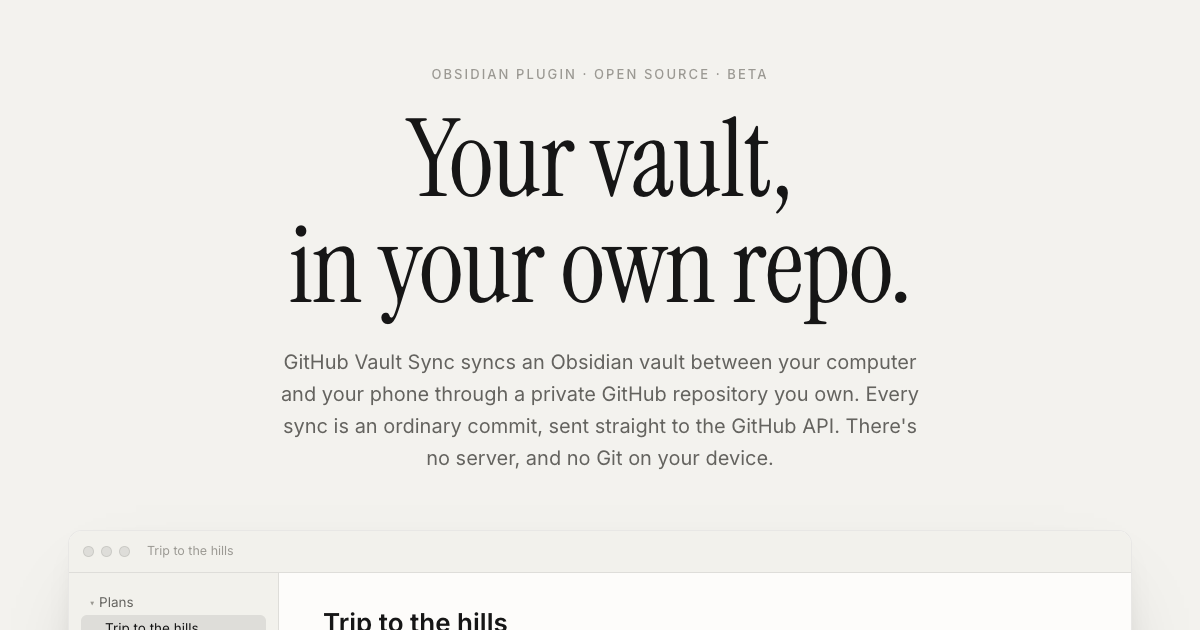
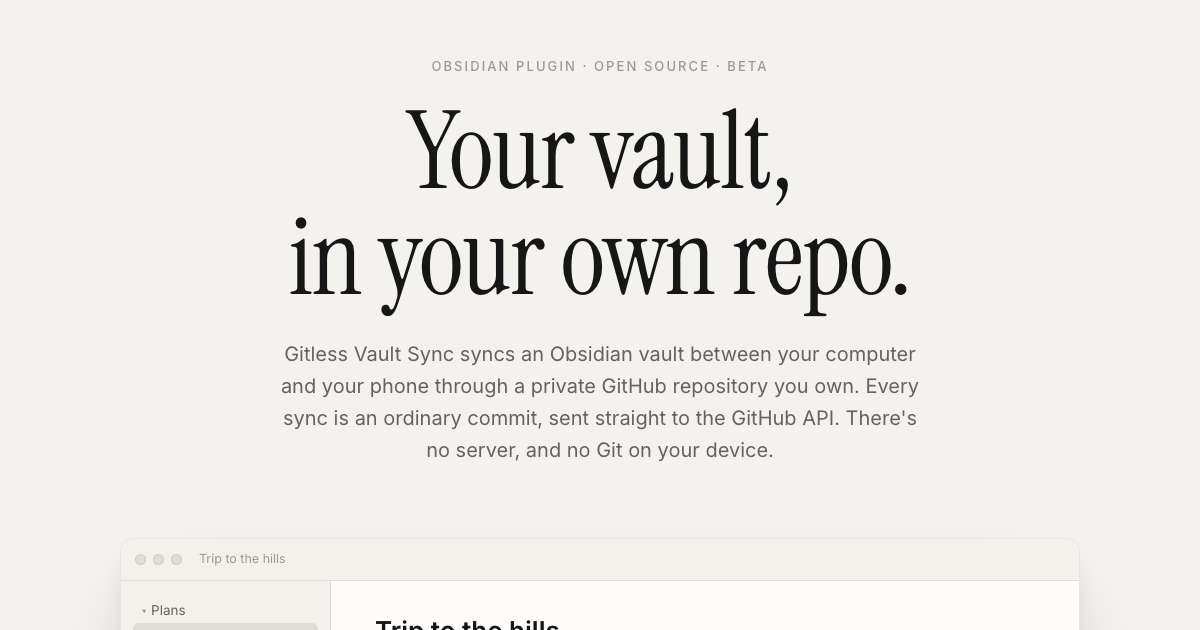
Rename the plugin to Gitless Vault Sync and release 0.4.1
The plugin id stays github-vault-sync, so installed devices keep their settings.
The updater's display name changes in 1.0.3.

diff --git a/plugin/updater/main.ts b/plugin/updater/main.ts
@@ -19,7 +19,7 @@ interface PluginManager {
   loadManifests?(): Promise<void>;
 }
 
-/** Keeps GitHub Vault Sync current from the public `updates` branch of its repository. */
+/** Keeps Gitless Vault Sync current from the public `updates` branch of its repository. */
 export default class SyncUpdater extends Plugin {
   private data: UpdaterData = { rejected: [] };
   private checking = false;
@@ -30,7 +30,7 @@ export default class SyncUpdater extends Plugin {
     const saved: unknown = await this.loadData();
     const rejected: unknown = saved && Reflect.get(saved, "rejected");
     if (Array.isArray(rejected)) this.data.rejected = rejected.filter((item): item is string => typeof item === "string");
-    this.addCommand({ id: "check", name: "Check for GitHub Vault Sync update", callback: () => { void this.check(true); } });
+    this.addCommand({ id: "check", name: "Check for Gitless Vault Sync update", callback: () => { void this.check(true); } });
     this.app.workspace.onLayoutReady(() => {
       // Let startup and the first sync settle before looking for updates.
       this.registerInterval(window.setTimeout(() => { void this.check(false); }, 20_000));
@@ -64,8 +64,8 @@ export default class SyncUpdater extends Plugin {
     } catch (error) {
       this.failedAt = Date.now();
       // Background checks stay quiet on failure (often just offline); a manual check says why.
-      if (manual) new Notice(`Couldn't check for a GitHub Vault Sync update. ${error instanceof Error ? error.message : ""}`, 8000);
-      else console.warn("GitHub Vault Sync updater:", error);
+      if (manual) new Notice(`Couldn't check for a Gitless Vault Sync update. ${error instanceof Error ? error.message : ""}`, 8000);
+      else console.warn("Gitless Vault Sync updater:", error);
     } finally {
       this.checking = false;
     }
@@ -74,21 +74,21 @@ export default class SyncUpdater extends Plugin {
   private async report(result: UpdateResult, manual: boolean): Promise<void> {
     switch (result.kind) {
       case "updated":
-        new Notice(`GitHub Vault Sync updated to ${result.to}.`, 4000);
+        new Notice(`Gitless Vault Sync updated to ${result.to}.`, 4000);
         return;
       case "rolled-back":
         this.data.rejected = [...new Set([...this.data.rejected, result.version])];
         await this.saveData(this.data);
-        new Notice(`GitHub Vault Sync ${result.version} didn't load on this device, so the previous version was restored.`, 0);
+        new Notice(`Gitless Vault Sync ${result.version} didn't load on this device, so the previous version was restored.`, 0);
         return;
       case "skipped":
-        if (manual) new Notice(`GitHub Vault Sync ${result.version} is available but wasn't installed. ${result.reason}`, 8000);
+        if (manual) new Notice(`Gitless Vault Sync ${result.version} is available but wasn't installed. ${result.reason}`, 8000);
         return;
       case "busy":
         if (manual) new Notice("A sync is running. The update will be tried again later.", 6000);
         return;
       case "up-to-date":
-        if (manual) new Notice(`GitHub Vault Sync is up to date (${result.version}).`, 4000);
+        if (manual) new Notice(`Gitless Vault Sync is up to date (${result.version}).`, 4000);
     }
   }
 

diff --git a/site/vaultsync/index.html b/site/vaultsync/index.html
@@ -3,9 +3,9 @@
 <head>
 <meta charset="utf-8" />
 <meta name="viewport" content="width=device-width, initial-scale=1" />
-<title>GitHub Vault Sync for Obsidian</title>
+<title>Gitless Vault Sync for Obsidian</title>
 <meta name="description" content="An Obsidian plugin that syncs your vault through a private GitHub repository you own. Every sync is a plain commit. No server, no Git on your device, and it works on phones." />
-<meta property="og:title" content="GitHub Vault Sync for Obsidian" />
+<meta property="og:title" content="Gitless Vault Sync for Obsidian" />
 <meta property="og:description" content="Sync an Obsidian vault through a private GitHub repository you own, on desktop and phone. No server, no Git on your device." />
 <meta property="og:image" content="https://vaultsync.tushar.ai/og.png" />
 <meta property="og:url" content="https://vaultsync.tushar.ai/" />
@@ -188,7 +188,7 @@
 <script>document.documentElement.classList.add('js')</script>
 <div class="wrap">
   <header class="top">
-    <a class="mark" href="/">Vault Sync</a>
+    <a class="mark" href="/">Gitless Vault Sync</a>
     <nav>
       <a class="hide-sm" href="#install">Install</a>
       <a class="hide-sm" href="https://notes.tushar.ai/">Android app</a>
@@ -261,7 +261,7 @@
     <h2>Set it up once per device.</h2>
     <ol class="steps">
       <li><b>Download both plugins</b> from the <a href="https://github.com/triptu/markdown-github-sync/releases/latest">latest release</a> and unzip them into your vault's <code>.obsidian/plugins/</code> folder.</li>
-      <li><b>Make a private repository</b> on GitHub, then turn on GitHub Vault Sync and its Updater in Obsidian.</li>
+      <li><b>Make a private repository</b> on GitHub, then turn on Gitless Vault Sync and its Updater in Obsidian.</li>
       <li><b>Enter the repository and a token</b> in the plugin's settings, click Connect, look over the first sync, and start.</li>
     </ol>
     <p class="more">The <a href="https://github.com/triptu/markdown-github-sync#readme">README</a> has the full steps, the token permissions and the limits.</p>

diff --git a/plugin/src/main.ts b/plugin/src/main.ts
@@ -174,7 +174,7 @@ export default class GitVaultSync extends Plugin {
   }
   /** Opens this plugin's settings page; uses Obsidian's unofficial settings API when present. */
   openSettings(): void {
-    if (!openSettingsTab(this.app, this.manifest.id)) new Notice("Open Settings → GitHub Vault Sync.");
+    if (!openSettingsTab(this.app, this.manifest.id)) new Notice("Open Settings → Gitless Vault Sync.");
   }
   /** Background failures: offline is retried quietly; anything else is shown until it's fixed. */
   fail(error: unknown): void {
@@ -500,13 +500,13 @@ export default class GitVaultSync extends Plugin {
       if (outcome.kind === "synced" && Date.now() - this.lastCleanup >= 30 * 60 * 1000) {
         // Internal safety copies are pruned quietly; a failed cleanup retries next time.
         try { await this.compactRecoveryOwned(); }
-        catch (error) { console.warn("GitHub Vault Sync: cleanup skipped", error); }
+        catch (error) { console.warn("Gitless Vault Sync: cleanup skipped", error); }
       }
     });
   }
   async syncNow(): Promise<void> {
     if (!this.session) {
-      new Notice("Finish setting up GitHub Vault Sync in settings.");
+      new Notice("Finish setting up Gitless Vault Sync in settings.");
       return;
     }
     await this.scheduler?.now();

diff --git a/plugin/test/plugin-safety.test.ts b/plugin/test/plugin-safety.test.ts
@@ -140,7 +140,7 @@ function harness() {
     },
   };
   const create = (replacement = false) => {
-    const plugin = new (replacement ? reloaded : loaded).GitVaultSync(app as unknown as App, { id: "git-vault-sync", name: "GitHub Vault Sync", version: "test", minAppVersion: "1.11.4", description: "Safety test", author: "Test" }); plugin.app = app as unknown as App;
+    const plugin = new (replacement ? reloaded : loaded).GitVaultSync(app as unknown as App, { id: "git-vault-sync", name: "Gitless Vault Sync", version: "test", minAppVersion: "1.11.4", description: "Safety test", author: "Test" }); plugin.app = app as unknown as App;
     plugin.settings = structuredClone(settings); Reflect.set(plugin, "ready", true); return plugin;
   };
   return { app, docs, files, local, put, create, emit: (name: string, path: string, oldPath?: string) => events.get(name)?.({ path }, oldPath), beforeProcess: (callback: () => Promise<void>) => { beforeProcess = callback; }, crashAfter: () => { crashAfter = true; }, crashBefore: () => { crashBefore = true; }, tearWrite: () => { tearNextWrite = true; } };

diff --git a/site/notes/index.html b/site/notes/index.html
@@ -191,7 +191,7 @@
     <span class="pair-mark"><svg viewBox="0 0 28 28" fill="none" stroke="currentColor" stroke-width="1.5" stroke-linecap="round" stroke-linejoin="round" aria-hidden="true"><circle cx="8" cy="7" r="2.6"/><circle cx="8" cy="21" r="2.6"/><circle cx="20" cy="11" r="2.6"/><path d="M8 9.6v8.8M20 13.6c0 4-3 4.6-9.6 6"/></svg></span>
     <div>
       <p class="eyebrow">Pairs with</p>
-      <b>GitHub Vault Sync</b>
+      <b>Gitless Vault Sync</b>
       <span class="pair-desc">The Obsidian plugin this app syncs with. Your phone and your computer share one private repository.</span>
     </div>
     <span class="arrow" aria-hidden="true">&rarr;</span>

diff --git a/plugin/test/copy.test.ts b/plugin/test/copy.test.ts
@@ -101,7 +101,7 @@ test("token link prefills repository permissions and owner without adding broade
   assert.equal(url.searchParams.get("target_name"), "triptu");
   assert.equal(url.searchParams.get("contents"), "write");
   assert.equal(url.searchParams.get("metadata"), "read");
-  assert.equal(url.searchParams.get("name"), "Obsidian GitHub Vault Sync");
+  assert.equal(url.searchParams.get("name"), "Obsidian Gitless Vault Sync");
   assert.deepEqual([...url.searchParams.keys()].sort(), ["contents", "description", "metadata", "name", "target_name"]);
   assert.equal(new URL(tokenCreationUrl("")).searchParams.has("target_name"), false);
 });

diff --git a/plugin/src/ui/copy.ts b/plugin/src/ui/copy.ts
@@ -9,7 +9,7 @@ export function failure(error: unknown): string {
 /** GitHub's fine-grained token form, prefilled with this plugin's name and the permissions it needs. */
 export function tokenCreationUrl(owner: string): string {
   const url = new URL("https://github.com/settings/personal-access-tokens/new");
-  url.searchParams.set("name", "Obsidian GitHub Vault Sync");
+  url.searchParams.set("name", "Obsidian Gitless Vault Sync");
   url.searchParams.set("description", "Sync my Obsidian vault with GitHub");
   url.searchParams.set("contents", "write");
   url.searchParams.set("metadata", "read");

diff --git a/plugin/src/ui/configuration-modal.ts b/plugin/src/ui/configuration-modal.ts
@@ -20,7 +20,7 @@ export class ConfigurationModal extends Modal {
     const el = this.contentEl;
     el.empty(); el.addClass("git-sync-panel");
     this.setTitle("Obsidian settings");
-    if (!session) { el.createEl("p", { text: "Connect to GitHub in GitHub Vault Sync settings first." }); return; }
+    if (!session) { el.createEl("p", { text: "Connect to GitHub in Gitless Vault Sync settings first." }); return; }
     const loading = el.createEl("p", { text: "Checking settings on this device…", cls: "git-sync-muted" });
     try {
       const listing = await session.listConfiguration();

diff --git a/plugin/src/ui/enrollment-modal.ts b/plugin/src/ui/enrollment-modal.ts
@@ -97,7 +97,7 @@ export class PublicationRecoveryModal extends Modal {
         this.close();
         const enrollment = await this.plugin.session?.previewEnrollment();
         if (enrollment?.kind === "preview") new EnrollmentModal(this.app, this.plugin, enrollment).open();
-        else new Notice("Open GitHub Vault Sync settings to review changes and resume.");
+        else new Notice("Open Gitless Vault Sync settings to review changes and resume.");
       }, "Save copies and review").open();
     }));
   }

diff --git a/plugin/src/ui/changes-modal.ts b/plugin/src/ui/changes-modal.ts
@@ -90,7 +90,7 @@ export class ChangesModal extends Modal {
       if (!current()) return;
       body.empty();
       if (!status || status.kind === "unenrolled") {
-        summary.setText("Sync isn't set up yet. Connect to GitHub in GitHub Vault Sync settings.");
+        summary.setText("Sync isn't set up yet. Connect to GitHub in Gitless Vault Sync settings.");
         return;
       }
       if (status.kind === "corrupt") {

diff --git a/AGENTS.md b/AGENTS.md
@@ -1,6 +1,6 @@
 # Maintainer guide
 
-GitHub Vault Sync is an Obsidian plugin that syncs a vault to a private GitHub repository by committing through the GitHub API. It has no server and no local `.git` checkout. This repository, `triptu/markdown-github-sync`, is the plugin's source. Personal details for the maintainer's own setup (vault paths, the vault repository, devices) live in `CLAUDE.local.md`, which git ignores; this repository is public, so keep them out of tracked files.
+Gitless Vault Sync is an Obsidian plugin that syncs a vault to a private GitHub repository by committing through the GitHub API. It has no server and no local `.git` checkout. This repository, `triptu/markdown-github-sync`, is the plugin's source. Personal details for the maintainer's own setup (vault paths, the vault repository, devices) live in `CLAUDE.local.md`, which git ignores; this repository is public, so keep them out of tracked files.
 
 ## Layout
 
@@ -14,7 +14,7 @@ GitHub Vault Sync is an Obsidian plugin that syncs a vault to a private GitHub r
   - `hidden-config.ts` covers `.obsidian` settings.
   - `scheduler.ts` decides when syncs run.
 - `plugin/src/ui/`: modals and settings. All user-facing wording lives in `ui/copy.ts`.
-- `plugin/updater/`: the companion **GitHub Vault Sync Updater** plugin. `core.ts` holds the logic and has no Obsidian imports.
+- `plugin/updater/`: the companion **Gitless Vault Sync Updater** plugin. `core.ts` holds the logic and has no Obsidian imports.
 - `plugin/test/`: run with `npm test` from `plugin/` (some tests use relative paths).
 - `site/`: the two static product pages, `notes/` (notes.tushar.ai) and `vaultsync/` (vaultsync.tushar.ai). Each folder is its own Vercel project and deploys on push to `main` when that folder changes. Screens and notes there are made up.
 - `android/`: a native Android notes app (Kotlin, Compose) that edits the same vault. Build and test from `android/` with `./gradlew :app:testDebugUnitTest installDebug` (set `ANDROID_SERIAL` when an emulator is also attached). Test the app on an emulator, not the owner's phone: the phone carries only the release app (`io.github.triptu.notes`, built with `./gradlew :app:assembleRelease`, signed with a key configured in `~/.gradle/gradle.properties`) which holds the owner's real vault. Don't install the debug app (`io.github.triptu.notes.debug`) or anything else on the phone, and never open, tap, clear or reconfigure the release app; updating it with `adb install -r` is fine when asked. Never connect the debug app to a real vault. Before any `adb shell input` on an emulator, check `mCurrentFocus` is the debug app. The phone can show up twice in `adb devices` (by IP and by name); pick one with `ANDROID_SERIAL`.
@@ -34,18 +34,18 @@ GitHub Vault Sync is an Obsidian plugin that syncs a vault to a private GitHub r
 5. Run `npm run publish-update`. This builds the plugin, zips it and force-pushes a single commit to the `updates` branch, containing `latest.json` (the version plus a SHA-256 for each file) and `latest/*`.
 6. Run `gh release create <version> dist/github-vault-sync/main.js dist/github-vault-sync/manifest.json dist/github-vault-sync/styles.css dist/github-vault-sync.zip dist/github-vault-sync-updater.zip --latest -F docs/releases/<version>.md`. The tag is the bare version with no `v`. Obsidian and BRAT install the three loose files; the zips are for manual installs and the updater. Publish it as a full release, not a pre-release, because pre-releases are hidden from "latest release" lookups.
 
-Devices with the updater install the new version within about 6 hours, or at once with the command "Check for GitHub Vault Sync update". If it fails to load, the updater restores the old files and never retries that version. To ship a fix, publish a higher version number.
+Devices with the updater install the new version within about 6 hours, or at once with the command "Check for Gitless Vault Sync update". If it fails to load, the updater restores the old files and never retries that version. To ship a fix, publish a higher version number.
 
 `npm run lint` runs Obsidian's `eslint-plugin-obsidianmd` recommended config over `plugin/src`, the same checks as the community plugin review. Keep it free of errors. The warnings it still prints are deliberate: the engine uses bare timers and falls back to `.obsidian` because it also runs under Node in tests, copy keeps the plugin's name in capitals, and settings keep `display()` until `minAppVersion` reaches 1.13.
 
 The plugin is being submitted to Obsidian's community plugins under the same id, `github-vault-sync`. Once it's listed, Obsidian updates every device from these GitHub releases, and the updater can retire:
 
-1. On each device, disable and delete **GitHub Vault Sync Updater**. Remove it before ever uninstalling GitHub Vault Sync itself: while the updater is installed, it puts the plugin's files back when they're missing.
+1. On each device, disable and delete **Gitless Vault Sync Updater** (still named GitHub Vault Sync Updater on devices running updater 1.0.2 or older). Remove it before ever uninstalling Gitless Vault Sync itself: while the updater is installed, it puts the plugin's files back when they're missing.
 2. Drop step 5 and the two zips from step 6, then delete the `updates` branch, `plugin/updater/`, `scripts/publish-update.mjs` and the updater parts of `plugin/build.mjs` and `scripts/package.mjs`.
 
 Until then, both paths can run side by side. The updater never installs a version that's the same as or older than the one on disk, so it never undoes a community update, and both install the same build.
 
-The updater itself never updates automatically, so keep it small and stable. To change it, bump `plugin/updater/manifest.json` and copy `dist/github-vault-sync-updater/*` into `.obsidian/plugins/github-vault-sync-updater/` on one device. Config sync carries it to the other devices once the change is approved under Obsidian settings.
+The updater itself never updates automatically, so keep it small and stable. Devices still on updater 1.0.2 or older show it, and its command, under the old name GitHub Vault Sync. To change it, bump `plugin/updater/manifest.json` and copy `dist/github-vault-sync-updater/*` into `.obsidian/plugins/github-vault-sync-updater/` on one device. Config sync carries it to the other devices once the change is approved under Obsidian settings.
 
 The updater needs no token: it reads `latest.json` and `latest/*` from the public `updates` branch through raw.githubusercontent.com and checks each file's SHA-256. Sync uses a fine-grained PAT with Contents read/write on the vault repository; when it expires, sync shows this in settings.
 

diff --git a/README.md b/README.md
@@ -1,6 +1,6 @@
-# GitHub Vault Sync
+# Gitless Vault Sync
 
-An Obsidian plugin that syncs a vault through ordinary commits in a private GitHub repository, on desktop and mobile. There's no server and no local Git checkout. The plugin talks to the GitHub API directly.
+An Obsidian plugin that syncs a vault through ordinary commits in a private GitHub repository, on desktop and mobile. There's no server and no local Git checkout. The plugin talks to the GitHub API directly. It was called GitHub Vault Sync before 0.4.1.
 
 ## What it does and its limits
 
@@ -19,7 +19,7 @@ Limits:
 
 ## Install
 
-Once it's listed in Obsidian's community plugins, go to Settings → Community plugins → Browse, search for **GitHub Vault Sync**, then install and enable it. Obsidian keeps it up to date.
+Once it's listed in Obsidian's community plugins, go to Settings → Community plugins → Browse, search for **Gitless Vault Sync**, then install and enable it. Obsidian keeps it up to date.
 
 Until then, install it one of two ways:
 
@@ -31,13 +31,13 @@ Until then, install it one of two ways:
     -p main.js -p manifest.json -p styles.css --clobber
   ```
 
-Devices set up earlier may also have a companion plugin, GitHub Vault Sync Updater. Once GitHub Vault Sync is listed, Obsidian updates it instead, and you can disable and delete the updater.
+Devices set up earlier may also have a companion plugin, Gitless Vault Sync Updater (GitHub Vault Sync Updater on older installs). Once Gitless Vault Sync is listed, Obsidian updates it instead, and you can disable and delete the updater.
 
 ## Set up
 
 1. Create a private repository on GitHub, for example `your-name/notes`. It can't be empty, so tick **Add a README file** when you create it.
-2. In Obsidian, go to Settings → Community plugins. Turn off any other sync plugin (Obsidian Git, Self-hosted LiveSync, Remotely Save). Then enable **GitHub Vault Sync**.
-3. In GitHub Vault Sync's settings, enter the repository as `your-name/notes` and the branch (usually `main`).
+2. In Obsidian, go to Settings → Community plugins. Turn off any other sync plugin (Obsidian Git, Self-hosted LiveSync, Remotely Save). Then enable **Gitless Vault Sync**.
+3. In Gitless Vault Sync's settings, enter the repository as `your-name/notes` and the branch (usually `main`).
 4. Create a [fine-grained personal access token](https://github.com/settings/personal-access-tokens/new). The **Create token** link in settings opens this form with the permissions filled in. Give it access to only your notes repository, with:
    - Contents: read and write
    - Metadata: read
